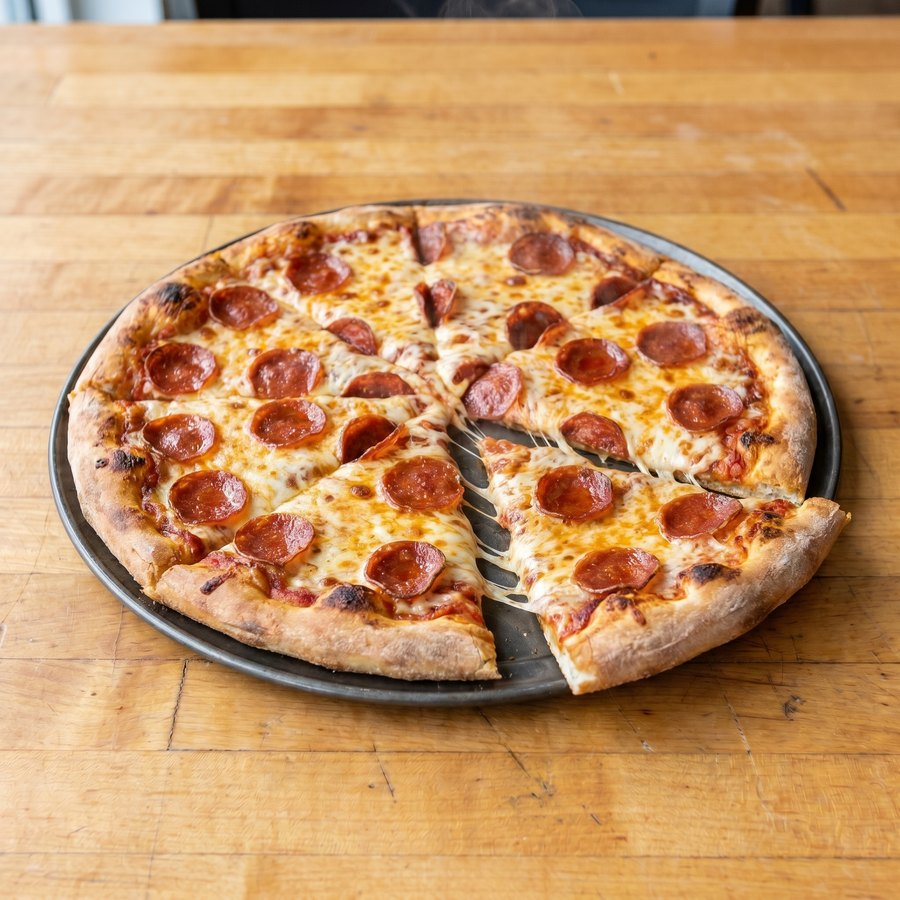
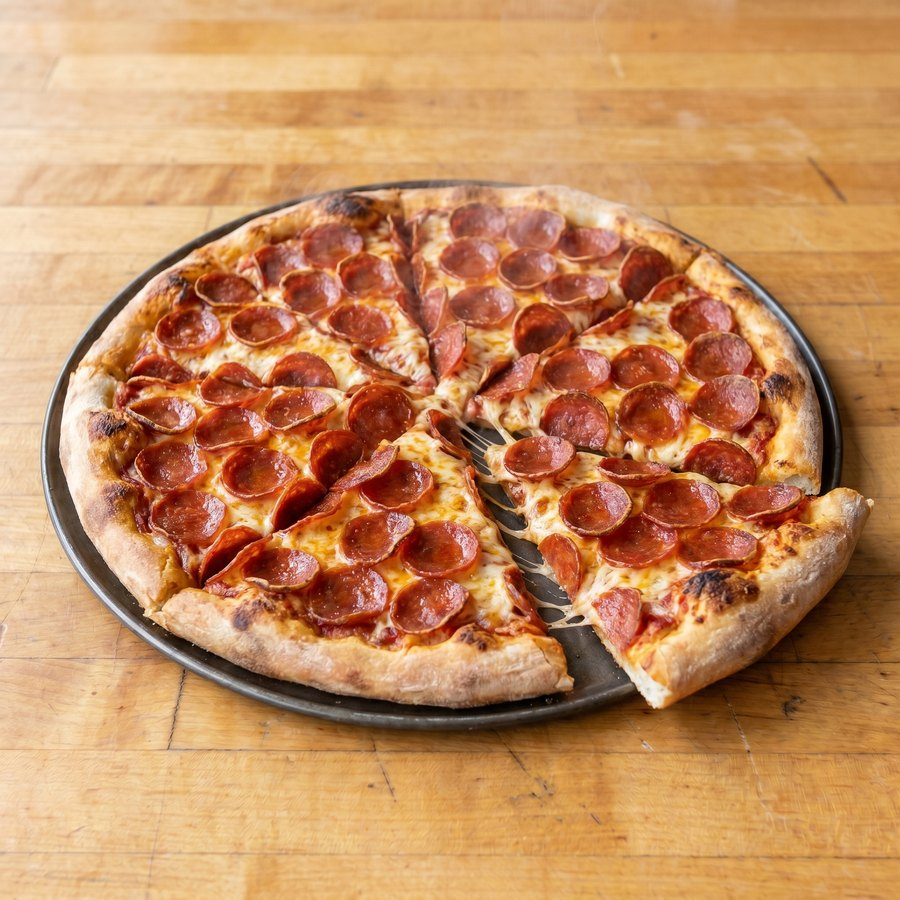
Pizza Pizza

diff --git a/index.html b/index.html
@@ -318,7 +318,7 @@ footer{background:#0C0907;border-top:1px solid var(--line);padding:64px 26px 28p
         <div class="in"><span class="tag">House Legend</span><h3>The Motherlode</h3><p>Double prime-rib patty, pulled bacon, fried egg, grilled onions.</p><span class="price">$18.99</span></div>
       </div>
       <div class="tile fade-up">
-        <div class="photo" style="background-image:url('assets/cooked-pepperoni.jpg?v=1')"></div>
+        <div class="photo" style="background-image:url('assets/cooked-pepperoni.jpg?v=2')"></div>
         <div class="in"><span class="tag">Fresh-Baked</span><h3>Pepperoni Pizza</h3><p>Hand-built and baked hot in-house. Pepperoni to specialty.</p><span class="price">from $13.99</span></div>
       </div>
       <div class="tile fade-up">
